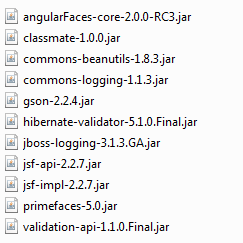
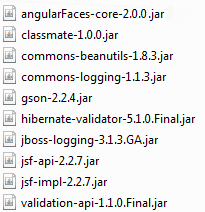
updated documentation

Changed region(s): [[0.0, 0.0, 0.9659, 0.9906]]

diff --git a/AngularFaces.com/WebContent/tutorial/step_00/info.html b/AngularFaces.com/WebContent/tutorial/step_00/info.html
@@ -23,20 +23,14 @@
           Dart and AngularDart, but I've postponed Dart support because I'm waiting for a couple of announced breaking changes in AngularDart.
           </p>
           <p>
-          AngularFaces supports PrimeFaces 5.0 and above (and probably earlier version, too). 
-          It doesn't really need PrimeFaces, but at the time of writing the code contains an
-          accidential dependency
-          to PrimeFaces that requires PrimeFaces 5.0 in the class path. A future version of AngularFaces will fix this, making PrimeFaces
-          an optional (but highly welcome) library.</p>
+          AngularFaces supports PrimeFaces 5.0 and above (and probably earlier versions, too). 
+          That doesn't mean PrimeFaces is required: PrimeFaces is an optional (but highly welcome) library.</p>
           <p>Most of the examples are based on Maven. Some of the examples are based on Spring Boot and Gradle. Actually AngularFaces doesn't require
           any of them - Maven and Gradle are just nice tools to compile and package the jar and war files.</p>
           <h2>Brief introduction for the experts</h2>
-          <p>There are two ways to use AngularFaces: use one of the precompiled distribution jars, or build it from source.<p>
-          <strong>Use the precompiled jar</strong>
-          <p>Currently, AngularFaces is not hosted at Maven central, so you have to use <a target="#"
-           href="http://devblog.virtage.com/2013/04/my-maven-project-needs-not-yet-mavenized-jars-dos-and-donts/">this recipe</a>
-           to install the pre-packaged jar to your maven repository. The jar file is hosted in the 
-           <a target="#" href="https://github.com/stephanrauh/AngularFaces/tree/master/dist">distribution folder</a> of the AngularFaces project.</p>
+          <p>There are two ways to use AngularFaces: download it from Maven Central, or build it from source.<p>
+          <strong>Download AngularFaces from Maven Central</strong>
+          <p>Maven users simply add the dependency to your pom.xml file (see below).</p>
            <strong>Build AngularFaces from source</strong>
           <p>
           Maven and Gradle users might want to "git clone" the <a href="https://github.com/stephanrauh/AngularFaces/tree/master/AngularFaces_2.0/AngularFaces-core">AngularFaces 2.0 core project</a> and run "maven install".</p>
@@ -65,14 +59,14 @@
   &lt;/dependency>
 &lt;/dependencies>
           </pre>
-          <p>Of course you'll probably have to adjust the version number of AngularFaces. It won't remain version 2.0.0 forever :).</p>
+          <p>Of course you'll may have to adjust the version number of AngularFaces. It won't remain version 2.0.0 forever :).</p>
           </p>
           <h2>Verbose explanation for the rest of us</h2>
           I've prepared a couple of tutorial projects for you. The first tutorial project doesn't do much: it's simply there to lay the ground to build on later.
           <br /><br />
           You find the first tutorial project at <a target="#" href="https://github.com/stephanrauh/AngularFaces/tree/master/Tutorial/step_00">my GitHub repository.</a>
-          I suggest you download the entire GitHub repository. Currently, AngularFaces hasn't made it to Maven Central yet. Until it does, building it from source
-          is the best approach. It's a fairly simple approach, by the way.<br /><br />
+          The following steps describe how to download the entire repository. That's more than you really need (among other things, it includes the source code of AngularFaces itself), 
+          it it doesn't hurt, either. Quite the contrary, having the source code of AngularFaces at hand may help you to understand things more quickly.<br /><br />
           <h3>Downloading AngularFaces with Git</h3>
           GitHub is build around Git, so probably the easiest way to get started is to clone the AngularFaces repository to your local hard disk.
           In order to clone it to - say - C:\AngularFaces, proceed as follows. Open the
@@ -127,7 +121,7 @@ git clone git@github.com:stephanrauh/AngularFaces.git
           <p>The folder angularfaces-tutorial-step-00//WEB-INF/lib of the Tomcat webapps folder should contain these libraries:</p>
           <img src="tutorial/step_00/libraries.png">
           <p>
-          AngularFaces doesn't really require PrimeFaces, but it's in the folder because AngularFaces supports PrimeFaces. Gson, classmate,
+          Gson, classmate,
           commons-beanutils, commons-logging and the two validation API jars are added by AngularFaces 2.0 core.</p> 
            <br />
            <br />

diff --git a/AngularFaces.com/WebContent/tutorial/step_01/info.html b/AngularFaces.com/WebContent/tutorial/step_01/info.html
@@ -131,7 +131,8 @@ angular.module("AngularFacesExamples", [ "angularfaces" ]);
       <pre class="html">
 &lt;tr>
   &lt;td>&lt;label for="myForm:j_idt7">number 2&lt;/label>&lt;/td>
-  &lt;td>&lt;input name="myForm:j_idt7" value="65" max="100" type="number" required="" min="10" ng-model="calculatorBean.number2" />&lt;/td>
+  &lt;td>&lt;input name="myForm:j_idt7" value="65" max="100" type="number" required="" 
+                   min="10" ng-model="calculatorBean.number2" />&lt;/td>
   &lt;td>&lt;puimessage af-for="myForm:j_idt7">&lt;/puimessage>&lt;/td>
 &lt;/tr></pre>
     <img src="tutorial/step_01/puimessage.png">
